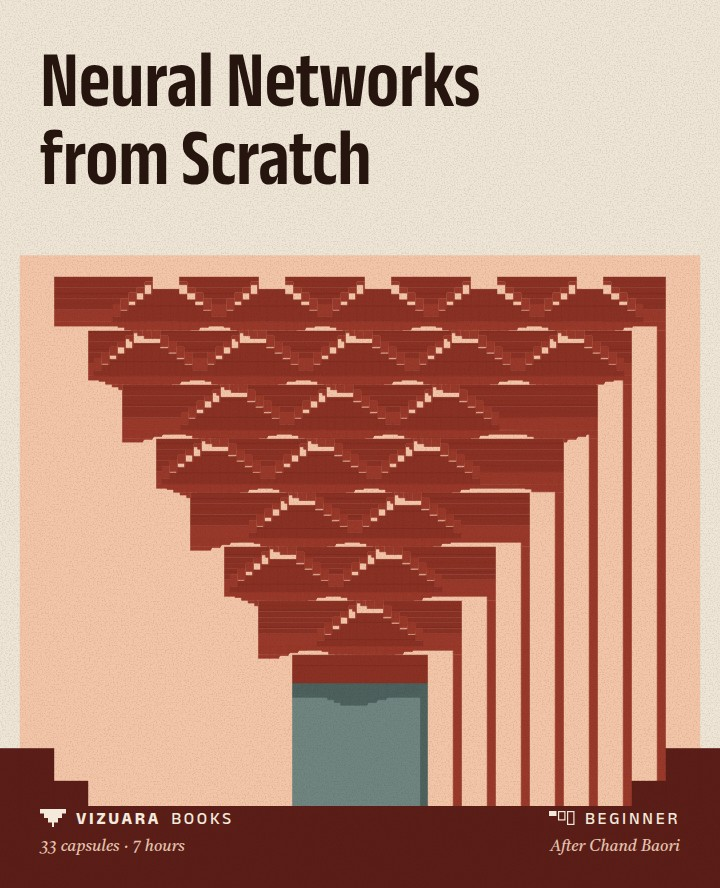
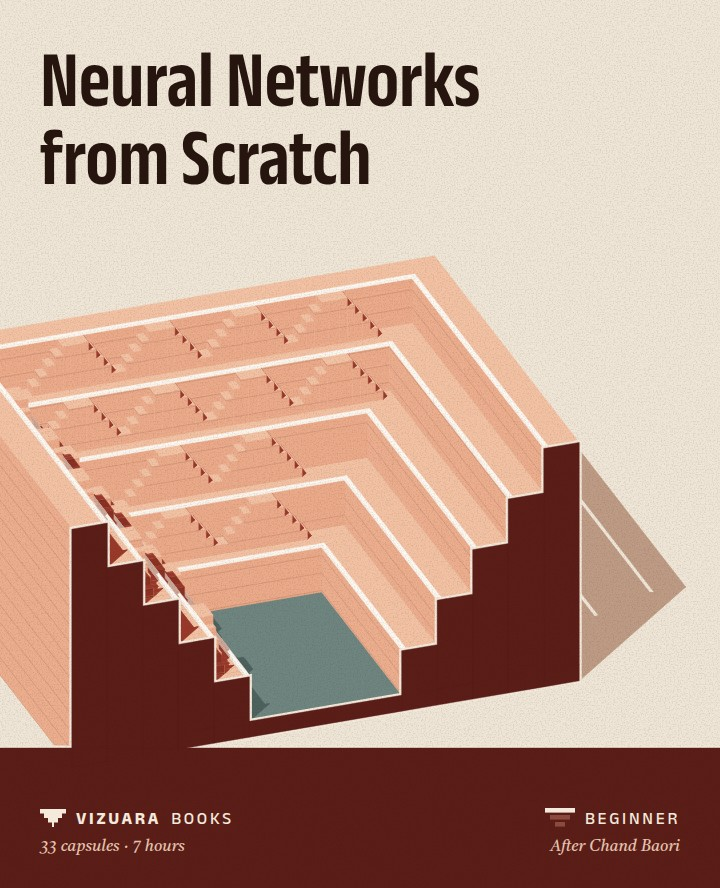
Review for 18 (Maquette)
Claude-Session: https://claude.ai/code/session_01GjEZZqx8kLqLuCvwpEUbmN

diff --git a/covers/15-jantar/index.html b/covers/15-jantar/index.html
@@ -620,10 +620,6 @@ figure{margin:0}
       S.box(A.a0, A.b1 - g, 0, A.a1, A.b1, A.zt, { mat: sm });
       S.box(A.a0, Y0, 0, A.a0 + g, A.b1 - g, A.zt, { mat: sm });
       S.box(A.a1 - g, Y0, 0, A.a1, A.b1 - g, A.zt, { mat: sm });
-      if (i > 0) { // marble nosing on the terrace lip
-        const c = 3;
-        S.box(A.a0 + g - c, Y0, A.zt, A.a1 - g + c, A.b1 - g + c, A.zt + 2.5, { mat: (nn) => nn, hide: true });
-      }
     }
     const B = lv(n);
     S.box(B.a0, Y0, 0, B.a1, B.b1, Zw - 6, { mat: sm });

diff --git a/covers/15-jantar/src/covers.js b/covers/15-jantar/src/covers.js
@@ -140,10 +140,6 @@
       S.box(A.a0, A.b1 - g, 0, A.a1, A.b1, A.zt, { mat: sm });
       S.box(A.a0, Y0, 0, A.a0 + g, A.b1 - g, A.zt, { mat: sm });
       S.box(A.a1 - g, Y0, 0, A.a1, A.b1 - g, A.zt, { mat: sm });
-      if (i > 0) { // marble nosing on the terrace lip
-        const c = 3;
-        S.box(A.a0 + g - c, Y0, A.zt, A.a1 - g + c, A.b1 - g + c, A.zt + 2.5, { mat: (nn) => nn, hide: true });
-      }
     }
     const B = lv(n);
     S.box(B.a0, Y0, 0, B.a1, B.b1, Zw - 6, { mat: sm });

diff --git a/covers/18-sculpture/REVIEW.md b/covers/18-sculpture/REVIEW.md
@@ -1,0 +1,29 @@
+# Art-director review — 18-sculpture
+
+**Score:** 8/10
+
+**Verdict:** A distinctive, well-made museum-catalogue system: every title reads at 180px, the paper key shows the level at a glance even in greyscale, and the PDFs carry the objects as 300dpi rasters with vector type underneath. It is let down by several gallery labels and captions that don't match the objects shown, one widowed word, an intermediate paper that renders too light, and three emblems that read as the wrong thing (Prompt, Neural Networks, Charlie Reasoning and Vision).
+
+**Strongest:** ai-context-engineering. The "context window" is packed block by block, with headroom at the top and one block left out on the floor. It is true to the subject, a little witty, reads immediately at 180px, and the mixed stones give the most colour in the set without any brand accent. It shows the whole idea (one object, one studio, one label) at its best. Runner-up: 5d-parallelism. The rhombic icosahedron really is the zonohedron of five icosahedral axes, the projection of a 5-cube, so the caption's "five parallel directions" is literally true.
+
+**Weakest:** prompt-engineering. A near-textureless dark slab tipped by a few degrees looks like a closed laptop or phone on a riser. The "small input, large change" lever idea isn't visible because the lift is tiny. The "slate" looks like matte plastic. In greyscale the red-lacquer wedge (about luminance 64) merges with the slab's underside (about 80), so the one idea-carrying element disappears.
+
+## Must fix
+
+1. **kernel-engineering** — Tagline widow: "From silicon to speculative decoding — GPU kernels for modern / LLMs." leaves "LLMs." alone on the second line (confirmed at 2x). The brief explicitly forbids orphaning a single short word.
+   - *Fix:* Add `text-wrap: balance` (or `pretty`) to `.tag` so it breaks as "From silicon to speculative decoding — / GPU kernels for modern LLMs.". Also add a non-breaking space before the last word of every tag as a system rule, so the Harness and Inference Engineering taglines can't widow either.
+2. **deit-from-scratch** — The label says "led by a distillation token", but the gilt token stands at the tail of the row: rightmost, nearest the camera and last in reading order. The model also leaves out the class token, which DeiT's input sequence has as well as the distillation token ([CLS, DIST, patches]). The oblique camera (yaw -50) hides the patch faces, so "one image as sixteen patches" can't be read. In greyscale the iron-oxide disc (about the same luminance as the limestone) disappears.
+   - *Fix:* Put the tokens at the head of the row. Add a plain class-token slab (unglazed plaster, same height as the gilt one) next to the gilt distillation token at the left end, and change the label to "…led by a class token and a distillation token". Turn the camera to about -25° so the patch faces show the disc. Darken the ink to a near-black oxide (about #3A1A12) so the disc survives greyscale.
+3. **build-llms-from-scratch** — The label says "Stoneware, oxblood glaze", but the lit faces render coral or salmon (sampled RGB 207,109,98), not oxblood. The shadow faces are crushed to pure black (RGB 6,0,0). In a catalogue-label system the medium line has to match the object shown.
+   - *Fix:* Lower the exposure or albedo so the lit faces land around #7A2320 to #8E2B25 with a glossy highlight, and add a bounce card on the right so the shadow faces sit at about 15–25% instead of 0%. Alternatively, change the label to "Stoneware, red glaze".
+4. **ai-context-engineering** — The front label lists "Travertine, slate, marble, terracotta", but the render also has sandstone (the pale yellow blocks) and serpentine (the green block, per the shader). The back-cover copy on the wrap lists sandstone, so the front and back of the same book disagree.
+   - *Fix:* Make the medium line "Travertine, slate, marble, sandstone, terracotta, serpentine". If that runs too long, replace the serpentine block with slate and use "Travertine, slate, marble, sandstone, terracotta" on both front and back.
+
+## Improvements (highest impact first)
+
+1. **system** — The intermediate paper renders far lighter than specified, and unevenly. Sampled wall values on intermediate covers range from about 165 to 215 (Build LLMs is the lightest, about 200–214). The specified stone is #A8A39A (about 164), chalk renders about 240 and soot about 55. So beginner vs intermediate is the weakest distinction on the shelf and in greyscale, and it is the level signal the system depends on. Retune the k1 lighting preset (lower boxLum or exposure, or darken the paper to about #9A958C) so the wall at title height lands at 150–160 on every intermediate cover. Add a check to the render step that samples the wall at a fixed point per key and fails if it drifts more than ±8.
+2. **system** — White currently means both finished and forthcoming. The forthcoming rule uses white plaster, but Math (plaster), 5D (Carrara), all four Charlie cubes (porcelain) and DeiT (limestone) are white or near-white too. So Kernel Engineering doesn't read as forthcoming anywhere except the word in its label, and 8 of 14 objects are pale boxes or solids on grey paper, which will look repetitive at 50 books. Make the forthcoming state visible on the object itself: raw plaster with a visible steel armature, pointing marks and a tied paper tag. Add a material rule for finished books (for example, at most about 1 in 4 white objects per paper key, with a spread of warm, dark and metallic materials).
+3. **charlie-reasoning-room** — Series fix. (1) Reasoning: the five black recesses with thin gold risers read as a bar chart or phone signal-strength icon, not a stair, and the gilt treads are almost invisible. Cut a real flight of 6–7 steps that recedes diagonally into the cube face, lit from top-left, so the horizontal gilt treads catch light and the risers stay dark. (2) charlie-vision-room and charlie-sound-room are near-twins at 180px: a white cube with a round gilt hole on stone paper. Give Vision a 4×4 grid of small square apertures, which is an eye made of patches and fits its subtitle "Vision Transformers". Keep the round stepped horn for Sound only, and re-render the horn to remove the jagged, broken ring edges at its lower right.
+4. **prompt-engineering** — Rethink the emblem, keeping the system's materials: a small carved stone cylinder seal (the prompt) resting at the start of a long clay slab, rolled once to leave a continuous impressed frieze (the model's continuation). It reads immediately as a small input shaping a long output, it is true to how prompting conditions generation, and it gives the chalk shelf a new silhouette. If the wedge idea is kept instead, make the lift obvious (slab angle of 15° or more), give the slate a cleft texture, and switch the wedge to a value that contrasts in greyscale (for example, pale gilt or unglazed chalk-white).
+5. **neural-networks-from-scratch** — This is a core-six book, and the 4→4→1 ball-and-stick in a square 3D layout reads as a chemistry molecule model, the most generic image in the set. The rods also carry dark shadow smears at the crossings, and the 'terracotta' has a satin sheen that reads as copper. Alternative that fits the system: a string construction in the tradition of Gabo and Hepworth. Three upright oak boards are the layers, brass pins are the neurons, and taut linen threads run between every pin on adjacent boards, with thread thickness as weight. It is fully connected, clearly layered and clearly sculpture. At minimum, lay the layers out as a planar frieze facing the camera, make the material matte (rough about 0.9, no clear coat), and add fill so rod shadows don't go to black.
+6. **build-llms-from-scratch** — The column's top (y≈265) sits level with the italic '(LLMs) from Scratch' line. To avoid it, the column has been pushed to x≈418–505, making it the only off-centre object in the system. Keep twelve modules but scale them to about 0.8 so the top clears the subtitle by at least 40px, then centre the column on x=360 like every other object. A smaller point: '(LLMs)' belongs with the roman title, not the italic 'from Scratch' line. Consider 62px (the s2 size) with '(LLMs)' ending the second roman line.
